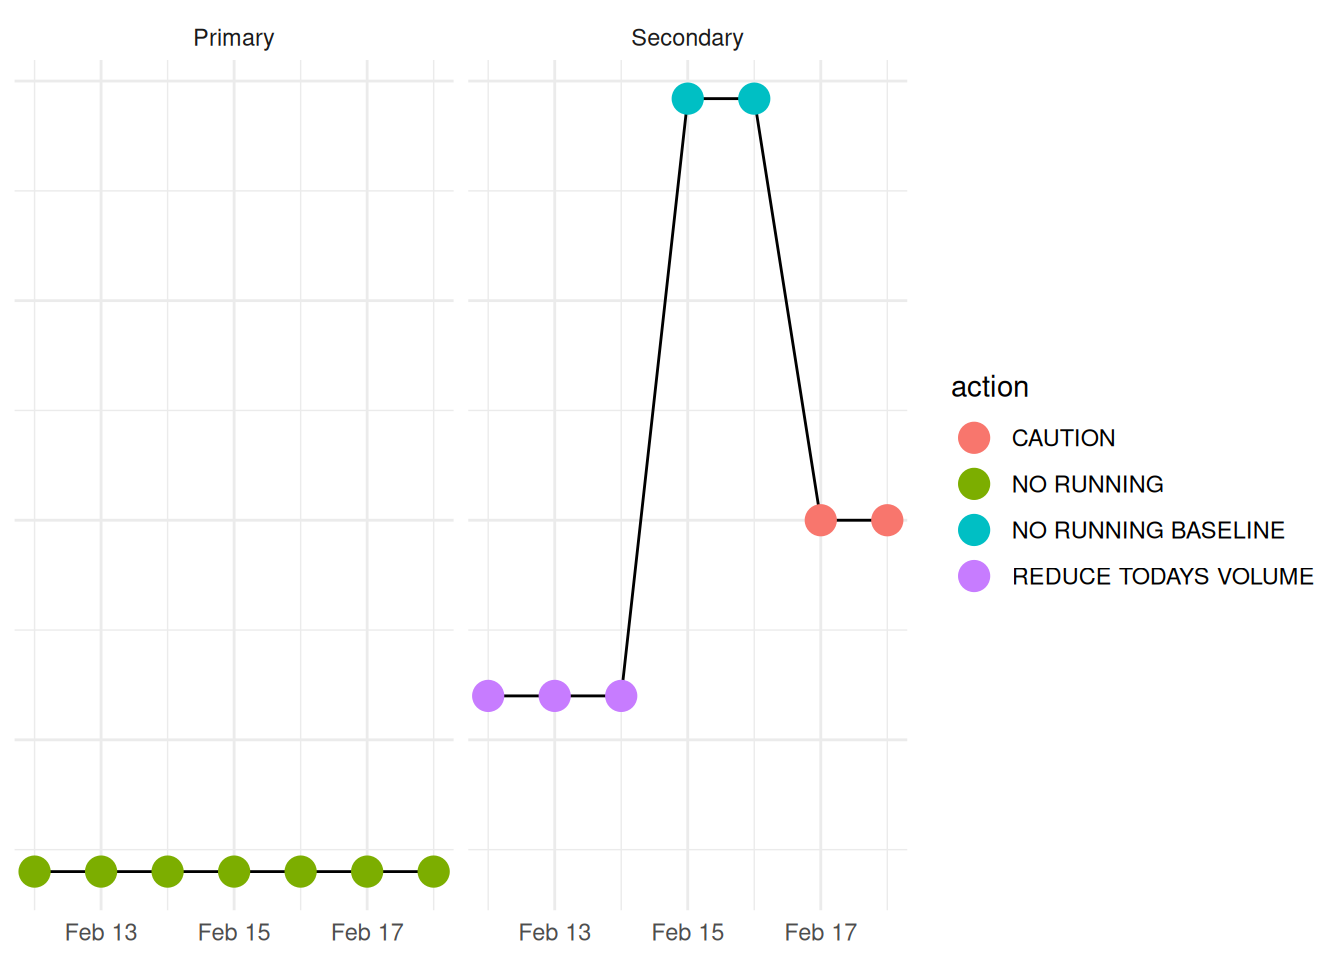
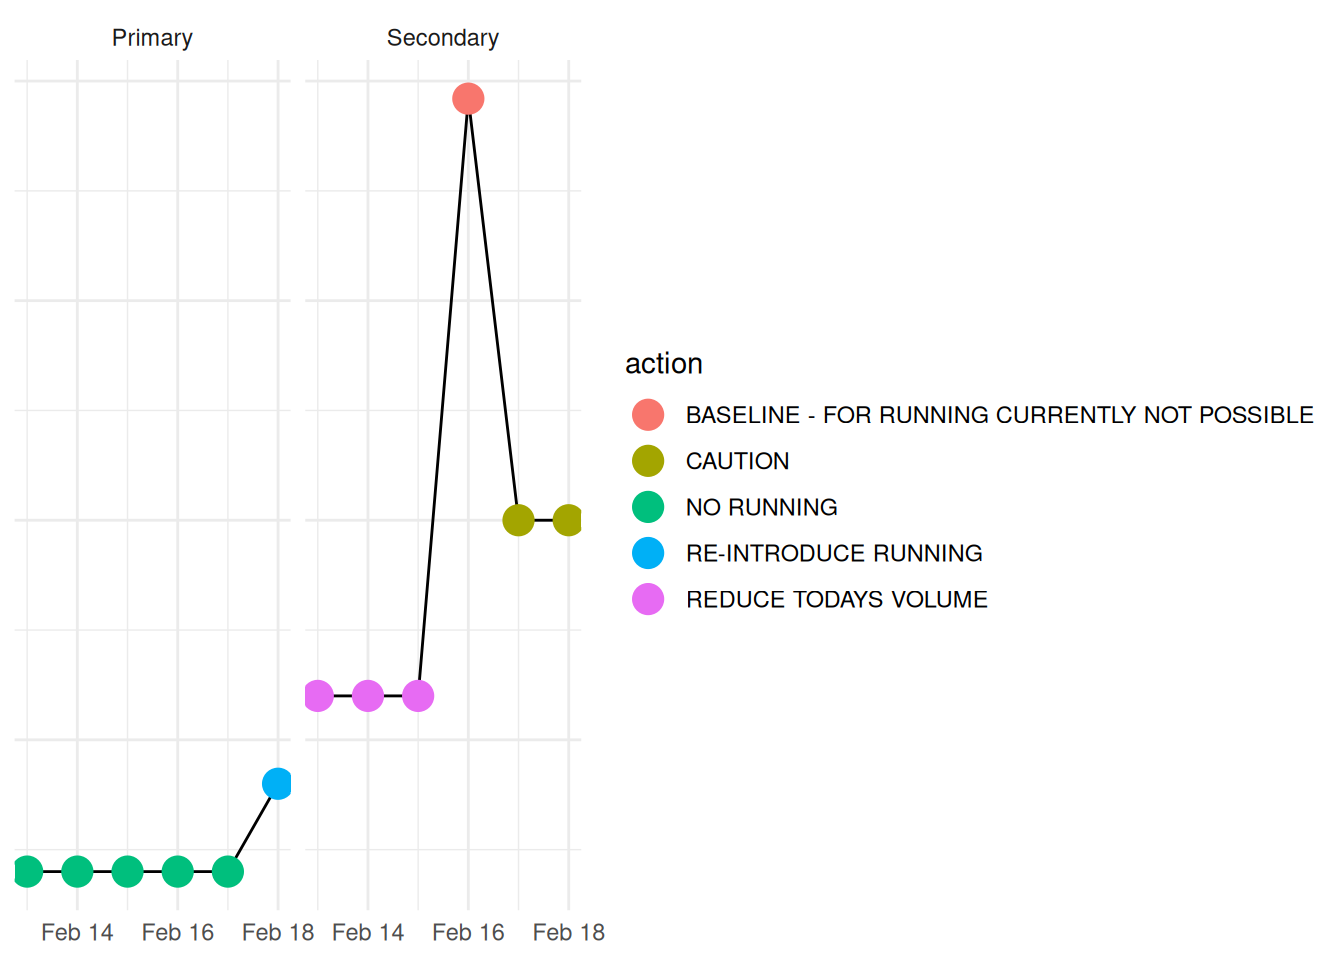
deploy: 1bbe00b00cc58e1ead8d43e994434c706051b85d

diff --git a/index.html b/index.html
@@ -135,14 +135,14 @@ ul.task-list li input[type="checkbox"] {
      border-radius:20px;
      font-weight:600;
      color:white;
-     background-color:#800000;">NO RUNNING</div>
+     background-color:#F49937;">RE-INTRODUCE RUNNING</div>
 </div>
 </div>
 <section id="details-for-todays-training-status" class="level3">
 <h3 class="anchored" data-anchor-id="details-for-todays-training-status">Details for Today’s Training Status</h3>
-<p><strong>Message:</strong> Running is blocked today; other modalities may still be performed with caution.</p>
+<p><strong>Message:</strong> Gradually increase running. Follow back-from-injury protocol: 1 day on 1 day off for 4 days than two times 2 days on 1 day off. Start with run/walk workouts and stop immediately if pain increases during exercise. Even if only a bit.</p>
 <p><strong>What’s the problem:</strong> Some functional restriction present.</p>
-<p><strong>Which activities are blocked:</strong> running</p>
+<p><strong>Which activities are blocked:</strong> NA</p>
 </section>
 <section id="second-status-if-active" class="level3">
 <h3 class="anchored" data-anchor-id="second-status-if-active">Second Status if Active</h3>
@@ -159,13 +159,21 @@ ul.task-list li input[type="checkbox"] {
 <section id="details-of-the-second-status" class="level4">
 <h4 class="anchored" data-anchor-id="details-of-the-second-status">Details of the Second Status</h4>
 <p><strong>Message:</strong> Caution advised. Monitor the development of pain, tightness, fatigue, sleep, and readiness closely over the next couple of days.</p>
-<p><strong>What’s the problem:</strong> I know you want to push but trust the plan. You’re on a brilliant journey and we need that consistency much more then we need heroic workouts.</p>
+<p><strong>What’s the problem:</strong> Urge to push is getting to you. I know you want to push but trust the plan. You’re on a brilliant journey and we need that consistency much more then we need heroic workouts., Motivation below normal. What’s wrong? Think about why you are doing this. All the beautiful runs and at some point on the top of the podium. You can do this! If it persists take some time off and do things you enjoy.</p>
 <p><strong>Which activities are blocked:</strong> NA</p>
 </section>
 </section>
 <section id="development-of-training-status" class="level3">
 <h3 class="anchored" data-anchor-id="development-of-training-status">Development of Training Status</h3>
 <div class="cell">
+<div class="cell-output cell-output-stdout">
+<pre><code>[1] "2026-02-13"
+[1] "2026-02-14"
+[1] "2026-02-15"
+[1] "2026-02-16"
+[1] "2026-02-17"
+[1] "2026-02-18"</code></pre>
+</div>
 <div class="cell-output-display">
 <div>
 <figure class="figure">
@@ -254,8 +262,8 @@ ul.task-list li input[type="checkbox"] {
 <h3 class="anchored" data-anchor-id="goal-volume-by-heart-rate-distribution">Goal Volume by Heart Rate Distribution</h3>
 <div class="cell">
 <div class="cell-output-display">
-<div class="datatables html-widget html-fill-item" id="htmlwidget-f8fd432e2dbdf8d11409" style="width:100%;height:auto;"></div>
-<script type="application/json" data-for="htmlwidget-f8fd432e2dbdf8d11409">{"x":{"filter":"none","vertical":false,"data":[[0,1,2,3,4],["&lt;125","125-143","144-160","161-177","178-200"],[0,40,50,8,2],[22.1,32.8,43.9,1.2,0],[null,null,null,null,null]],"container":"<table class=\"display\">\n  <thead>\n    <tr>\n      <th>Zone<\/th>\n      <th>Current HR Thresholds<\/th>\n      <th>Share (in %)<\/th>\n      <th>Share Last Week Total (in %)<\/th>\n      <th>Share Last Week Running (in %)<\/th>\n    <\/tr>\n  <\/thead>\n<\/table>","options":{"dom":"t","paging":false,"ordering":false,"info":false,"columnDefs":[{"className":"dt-right","targets":[0,2,3,4]},{"name":"Zone","targets":0},{"name":"Current HR Thresholds","targets":1},{"name":"Share (in %)","targets":2},{"name":"Share Last Week Total (in %)","targets":3},{"name":"Share Last Week Running (in %)","targets":4}],"order":[],"autoWidth":false,"orderClasses":false}},"evals":[],"jsHooks":[]}</script>
+<div class="datatables html-widget html-fill-item" id="htmlwidget-5ddeda28e7dcc75ecb06" style="width:100%;height:auto;"></div>
+<script type="application/json" data-for="htmlwidget-5ddeda28e7dcc75ecb06">{"x":{"filter":"none","vertical":false,"data":[[0,1,2,3,4],["&lt;125","125-143","144-160","161-177","178-200"],[0,40,50,8,2],[22.1,32.8,43.9,1.2,0],[null,null,null,null,null]],"container":"<table class=\"display\">\n  <thead>\n    <tr>\n      <th>Zone<\/th>\n      <th>Current HR Thresholds<\/th>\n      <th>Share (in %)<\/th>\n      <th>Share Last Week Total (in %)<\/th>\n      <th>Share Last Week Running (in %)<\/th>\n    <\/tr>\n  <\/thead>\n<\/table>","options":{"dom":"t","paging":false,"ordering":false,"info":false,"columnDefs":[{"className":"dt-right","targets":[0,2,3,4]},{"name":"Zone","targets":0},{"name":"Current HR Thresholds","targets":1},{"name":"Share (in %)","targets":2},{"name":"Share Last Week Total (in %)","targets":3},{"name":"Share Last Week Running (in %)","targets":4}],"order":[],"autoWidth":false,"orderClasses":false}},"evals":[],"jsHooks":[]}</script>
 </div>
 </div>
 
